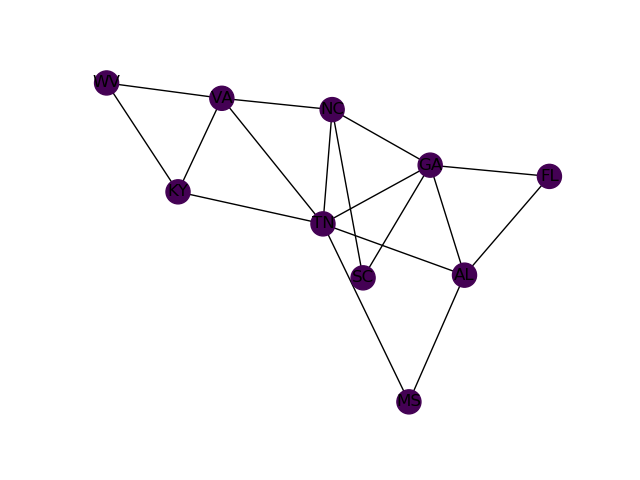
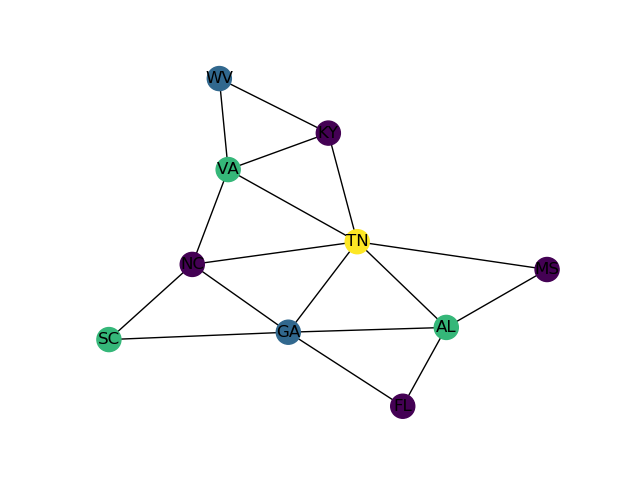
debug

diff --git a/assignment5/src/Map.py b/assignment5/src/Map.py
@@ -15,7 +15,8 @@ class Map:
         self.graphnum = []
         self.visited = []
         self.datalist = []
-        self.colors=[]
+        self.colors = []
+        self.neighbour = []
         with open(file, 'r') as f:
             for line in f:
                 p = list(line.split(','))
@@ -26,6 +27,7 @@ class Map:
                 self.visited.append(0)
                 self.datalist.append([0, 1, 2, 3])
                 self.colors.append(-1)
+                self.neighbour.append([])
                 self.graph.append(p)
         for i in range(len(self.graph)):
             q = []
@@ -35,6 +37,10 @@ class Map:
                         self.borders.append(Border(i, k))
                         q.append(k)
             self.graphnum.append(q)
+
+        for i in range(len(self.borders)):
+            self.neighbour[self.borders[i].index1].append(self.borders[i].index2)
+            self.neighbour[self.borders[i].index2].append(self.borders[i].index1)
 
     def picprint(self):
         labels = {}
@@ -57,10 +63,18 @@ class Map:
         plt.savefig("us_states.png")
         plt.show()
 
+    def textprint(self):
+        for i in range(len(self.graphnum)):
+            print(self.states[i],'(',self.colors[i],')','-->',end='')
+            for j in range(len(self.graphnum[i])):
+                print(self.states[self.graphnum[i][j]],'(',self.colors[self.graphnum[i][j]],')',' ',end='')
+            print()
+
     def isgoal(self):
         flag = 1
         for i in range(len(self.borders)):
             if self.colors[self.borders[i].index1] == self.colors[self.borders[i].index2]:
                 flag = 0
+                break
         return flag
 

diff --git a/assignment5/src/Back_forward.py b/assignment5/src/Back_forward.py
@@ -1,0 +1,35 @@
+def Back_forward(map,step):
+    location=-1
+    if step==len(map.states):
+        if map.isgoal() == 1:
+            map.picprint()
+            exit()
+        else:
+            return 0
+    else:
+        for i in range(len(map.states)):
+            if map.visited[i]==0:
+                location=i
+                break
+        map.visited[location]=1
+        for i in range(len(map.datalist[location])):
+            map.colors[location]=map.datalist[location][i]
+            flaglist=[]
+            b_flag=0
+            for j in range(len(map.neighbour[location])):
+                if map.datalist[location][i] in map.datalist[map.neighbour[location][j]]:
+                    flaglist.append(1)
+                    t=map.datalist[map.neighbour[location][j]].index(map.datalist[location][i])
+                    map.datalist[map.neighbour[location][j]].pop(t)
+                    if len(map.datalist[map.neighbour[location][j]])==0:
+                        b_flag=1
+                        break
+                else:
+                    flaglist.append(0)
+            if b_flag==0:
+                Back_forward(map,step+1)
+            for j in range(len(flaglist)):
+                if flaglist[j]==1:
+                    map.datalist[map.neighbour[location][j]].append(map.datalist[location][i])
+        map.visited[location]=0
+    return 0

diff --git a/assignment5/src/Back_tracking.py b/assignment5/src/Back_tracking.py
@@ -1,9 +1,20 @@
 def Back_tracking(map,step):
+    location=-1
     if step==len(map.states):
         if map.isgoal() == 1:
             map.picprint()
+            map.textprint()
             exit()
         else:
             return 0
-
+    else:
+        for i in range(len(map.states)):
+            if map.visited[i]==0:
+                location=i
+                break
+        map.visited[location]=1
+        for i in range(len(map.datalist[location])):
+            map.colors[location]=map.datalist[location][i]
+            Back_tracking(map,step+1)
+        map.visited[location]=0
     return 0

diff --git a/assignment5/src/main.py b/assignment5/src/main.py
@@ -1,10 +1,9 @@
 from Map import Map
 from Back_tracking import Back_tracking
+from Back_forward import Back_forward
 
 print('Which map do you want to search?(10/51):')
 num_state=int(input())
 map = Map('us_states_'+str(num_state)+'_ij.txt')
-
-map.picprint()
 
 Back_tracking(map,0)
